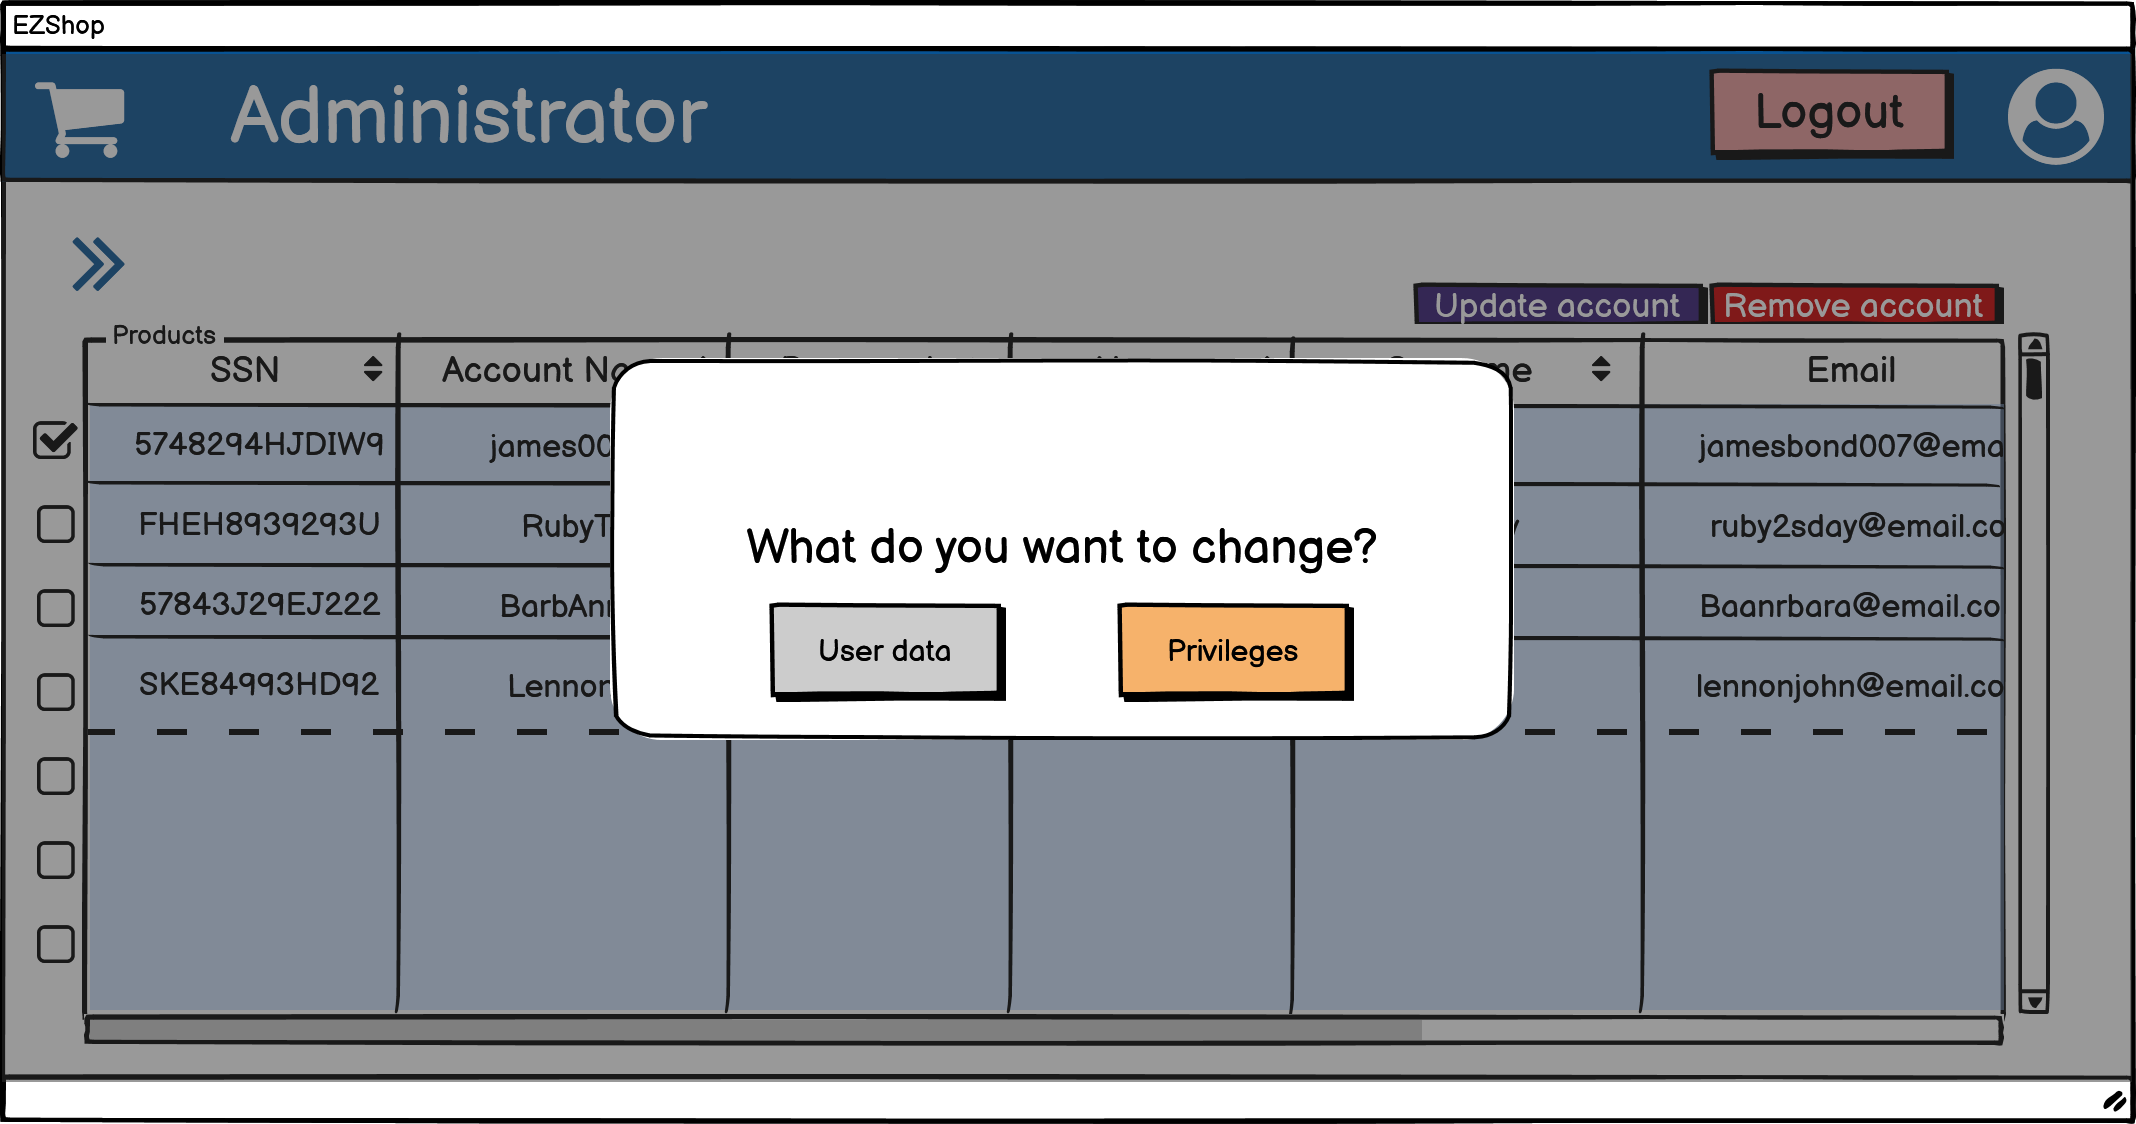
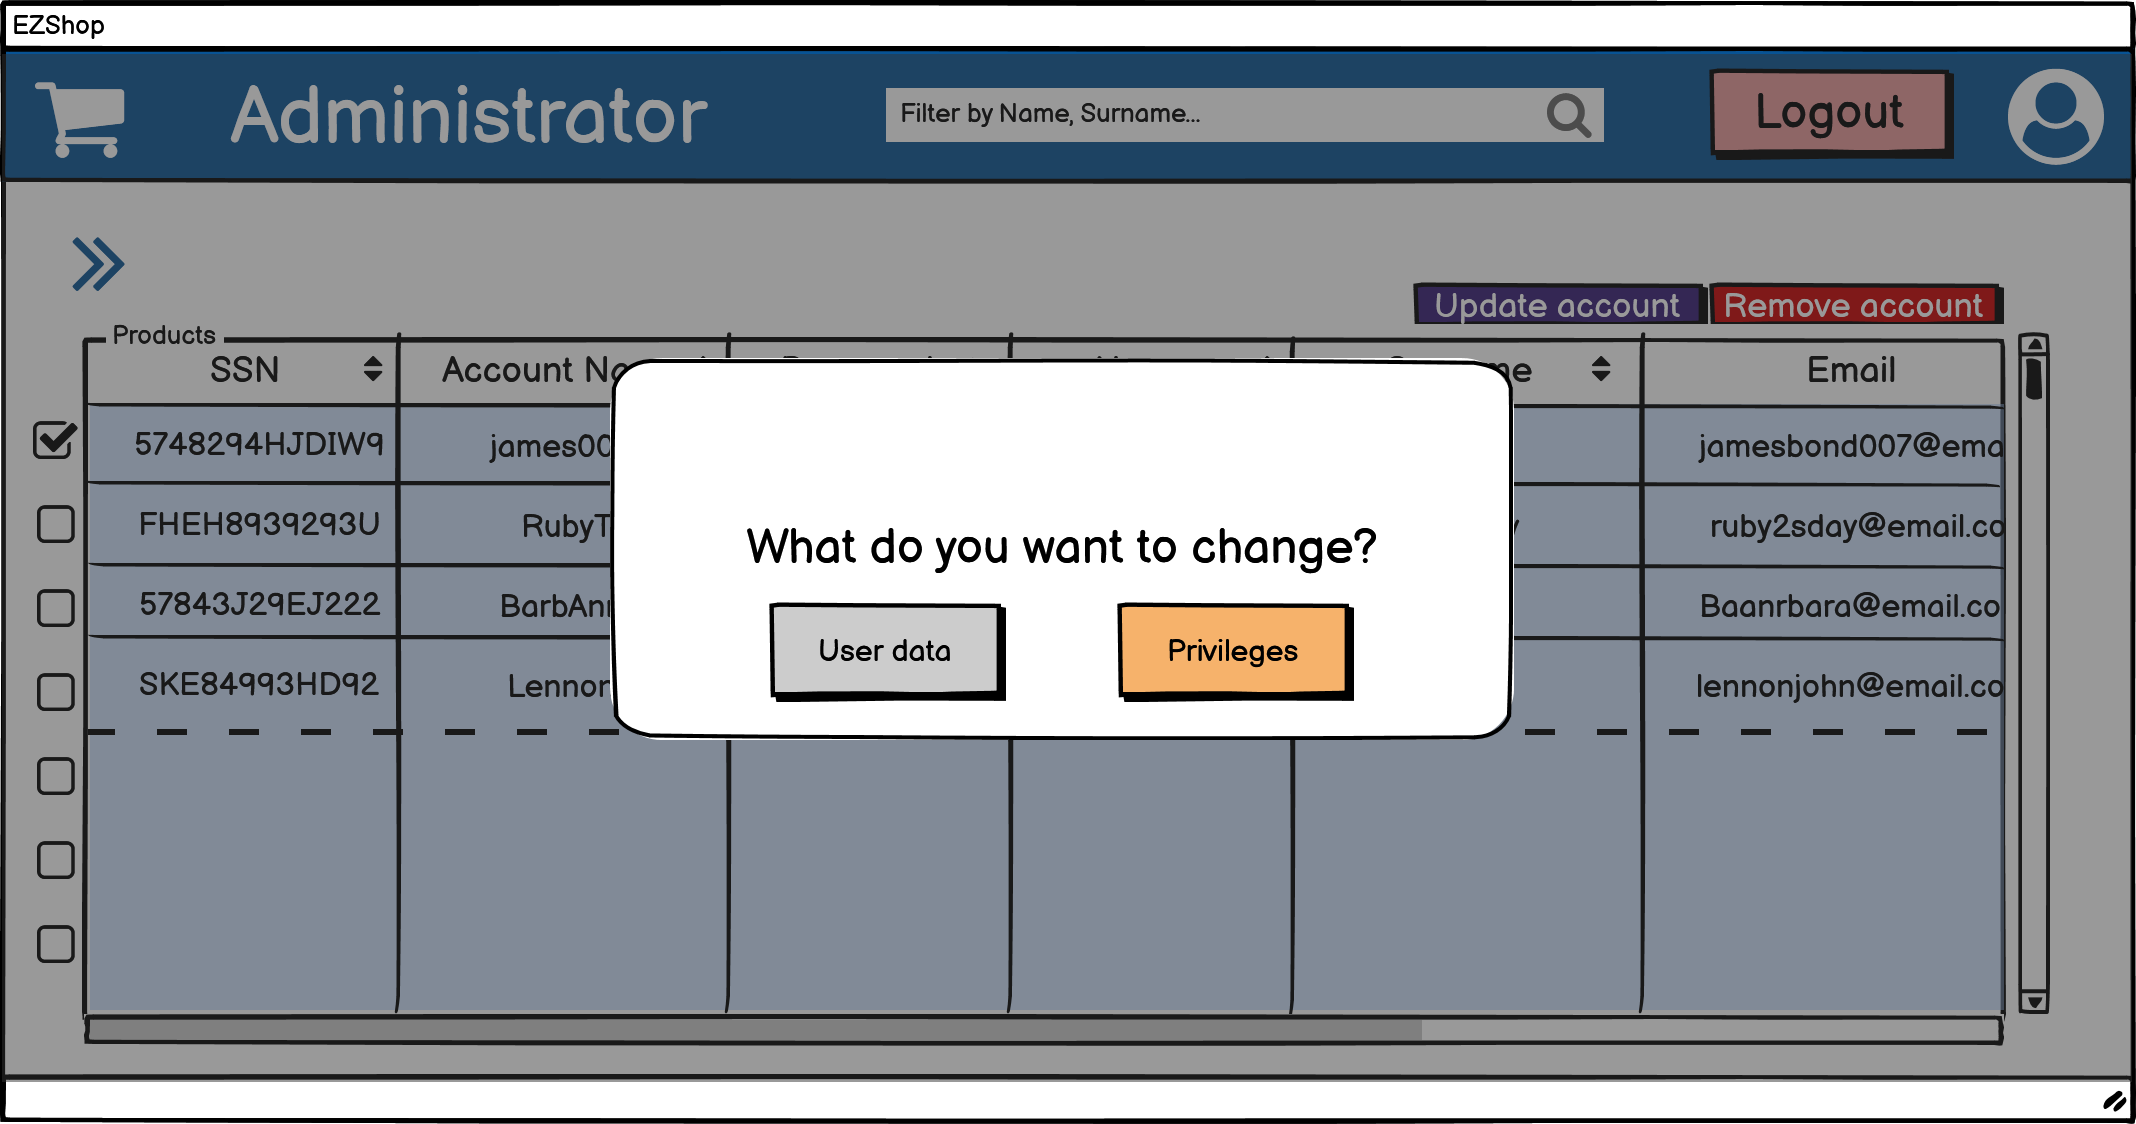
Doc: Minor fixes; Added Homepage.png to GUI prototype file

Changed region(s): [[0.4017, 0.0623, 0.7725, 0.1246]]

diff --git a/Deliverables/RequirementsDocument.md b/Deliverables/RequirementsDocument.md
@@ -27,7 +27,7 @@ Date: 20/04/2021
 - [Use case diagram and use cases](#use-case-diagram-and-use-cases)
 	+ [Use case diagram](#use-case-diagram)
 	+ [Use cases](#use-cases)
-    	+ [Relevant scenarios](#relevant-scenarios) TODO: rivedere
+    	+ [Relevant scenarios](#relevant-scenarios)
 - [Glossary](#glossary)
 - [System design](#system-design)
 - [Deployment diagram](#deployment-diagram)
@@ -1075,7 +1075,7 @@ In these use cases, the actor is an accountant, or a generic user from the shop 
 ### Use case 25, UC25 - Remove account
 | Actors Involved   | ITAdministrator	|
 | ----------------- | --------- |
-|  Precondition     | 1. ITAdministrator is authenticated<br/>2. At leat one user account must exist |
+|  Precondition     | 1. ITAdministrator is authenticated<br/>2. At least one user account must exist |
 |  Post condition   | One or more user accounts are removed from the system |
 |  Nominal Scenario | ITAdministrator remove user accounts from the showed list |
 |  Variants     	| - |
@@ -1089,10 +1089,11 @@ In these use cases, the actor is an accountant, or a generic user from the shop 
 | Step#          	| Description  |
 | 1     			|  ITAdministrator selects "Show accounts" |
 | 2 			    | Software shows a list of accounts |
-| 3				    | ITAdministrator chooses one or more of them |
-| 4                 | ITAdministrator chooses the "Remove account" option |
-| 5                 | Application displays a confirmation window showing the selected accounts that are going to be removed from the system |
-| 6                 | ITAdministrator confirms |
+| 3                 | Optionally, ITAdministrator filter by one of the account attributes |
+| 4				    | ITAdministrator chooses one or more of the accounts, which are output of the current filter |
+| 5                 | ITAdministrator chooses the "Remove account" option |
+| 6                 | Application displays a confirmation window showing the selected accounts that are going to be removed from the system |
+| 7                 | ITAdministrator confirms |
 
 ### Use case 26, UC26 - Update account
 | Actors Involved   | ITAdministrator	|
@@ -1111,13 +1112,14 @@ In these use cases, the actor is an accountant, or a generic user from the shop 
 | Step#          	| Description  |
 | 1     			|  ITAdministrator selects "Show accounts" |
 | 2 			    | Software shows a list of accounts |
-| 3				    | ITAdministrator chooses one of them |
-| 4                 | ITAdministrator chooses the "Update account" option |
-| 5                 | Software asks which changes are needed (user data or privileges) |
-| 6                 | ITAdministrator chooses to update the account  |
-| 7                 | Software shows forms to insert the new data |
-| 8                 | ITAdministrator inserts the new data |
-| 9                 | ITAdministrator confirms |
+| 3                 | Optionally, ITAdministrator filter by one of the account attributes |
+| 4				    | ITAdministrator chooses one or more of the accounts, which are output of the current filter |
+| 5                 | ITAdministrator chooses the "Update account" option |
+| 6                 | Software asks which changes are needed (user data or privileges) |
+| 7                 | ITAdministrator chooses to update the account  |
+| 8                 | Software shows forms to insert the new data |
+| 9                 | ITAdministrator inserts the new data |
+| 10                 | ITAdministrator confirms |
 
 #### Scenario 26.2 
 
@@ -1128,8 +1130,9 @@ In these use cases, the actor is an accountant, or a generic user from the shop 
 | Step#          	| Description  |
 | 1     			|  ITAdministrator selects "Show accounts" |
 | 2 			    | Software shows a list of accounts |
-| 3				    | ITAdministrator chooses at least two of them |
-| 4                 | Software automatically disable the "Update account" button |
+| 3                 | Optionally, ITAdministrator filter by one of the account attributes |
+| 4				    | ITAdministrator chooses at least two of the accounts, which are output of the current filter |
+| 5                 | Software automatically disable the "Update account" button |
 
 #### Scenario 26.3 
 
@@ -1140,13 +1143,14 @@ In these use cases, the actor is an accountant, or a generic user from the shop 
 | Step#          	| Description  |
 | 1     			|  ITAdministrator selects "Show accounts" |
 | 2 			    | Software shows a list of accounts |
-| 3				    | ITAdministrator chooses one of them |
-| 4                 | ITAdministrator chooses the "Update account" option |
-| 5                 | Software asks which changes are needed (user data or privileges) |
-| 6                 | ITAdministrator chooses to update the privileges  |
-| 7                 | Software shows forms to insert the new privilege level |
-| 8                 | ITAdministrator inserts the choice |
-| 9                 | ITAdministrator confirms |
+| 3                 | Optionally, ITAdministrator filter by one of the account attributes |
+| 4				    | ITAdministrator chooses only one of the accounts, which are output of the current filter |
+| 5                 | ITAdministrator chooses the "Update account" option |
+| 6                 | Software asks which changes are needed (user data or privileges) |
+| 7                 | ITAdministrator chooses to update the privileges  |
+| 8                 | Software shows forms to insert the new privilege level |
+| 9                 | ITAdministrator inserts the choice |
+| 10                 | ITAdministrator confirms |
 
 # Glossary
 

diff --git a/Deliverables/GUIPrototype.md b/Deliverables/GUIPrototype.md
@@ -14,6 +14,8 @@ Date: 16/04/2021
 
 # Home Page - Login
 
+![](GUI_images/Homepage.png)
+
 # FR_1 - Sales management
 
 ## FR_1.1 - Provide Shopping Cart and Total Amount
@@ -253,7 +255,7 @@ As in "Scenario 1.2 - Inserting Product/Card Code manually", but there is no war
 
 ![](GUI_images/SupportAccounting/Show_statistics_best_selling_products.png)
 
-## FR_5.3 Show banking data
+## FR_5.4 Show banking data
 
 ![](GUI_images/SupportAccounting/AccountantMenu3.png)
 
